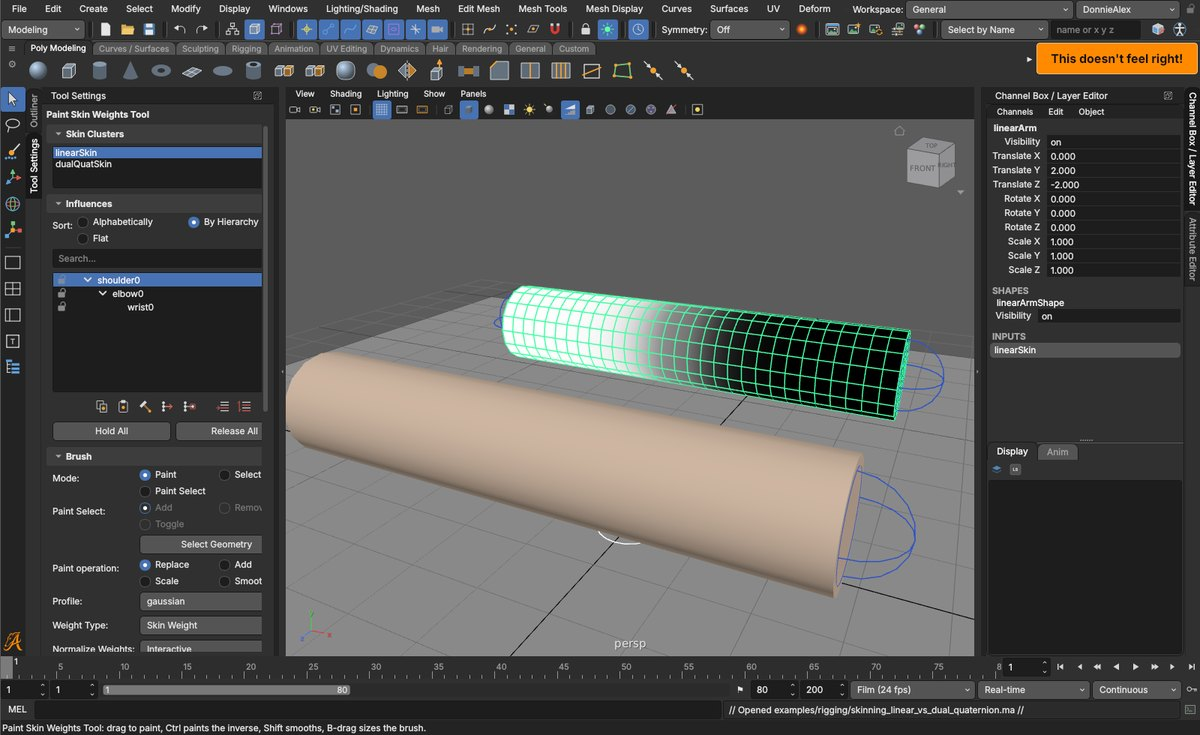
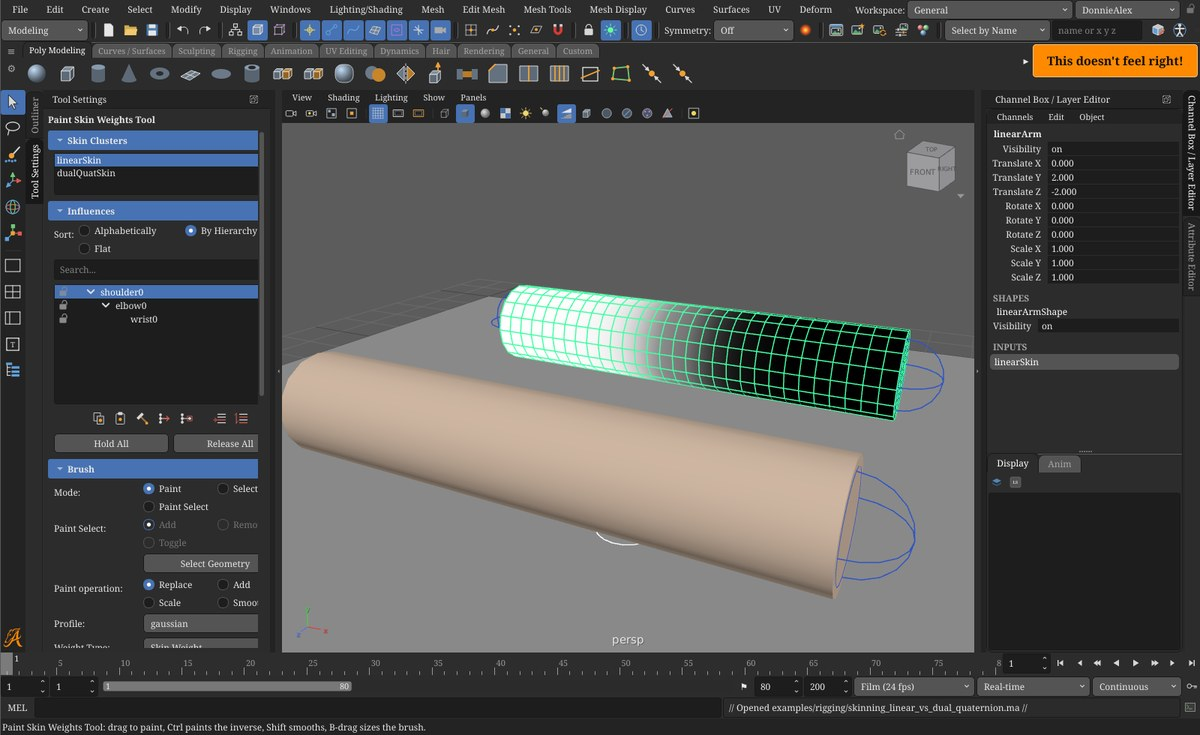
DonnieAlex theme: DonnieAlex's high-contrast version, the blue on the panel headers too, a slightly darker window grey and Noto Serif for the type; its screenshot retaken

diff --git a/site/index.html b/site/index.html
@@ -375,7 +375,7 @@ git push --mirror &lt;your repository's URL&gt;</code></pre>
     <figure><a href="img/theme-solarized-dark.jpg"><img src="img/theme-solarized-dark.jpg" alt="Aztek in the Springer theme" loading="lazy"></a><figcaption><b>Springer</b> Solarized dark with its yellow and orange: condensed type, single bevels, square edges.</figcaption></figure>
     <figure><a href="img/theme-slate.jpg"><img src="img/theme-slate.jpg" alt="Aztek in the Ozymok theme" loading="lazy"></a><figcaption><b>Ozymok</b> Plum and hot pink, Gill-style type with italic menus, gradient buttons with a single bevel.</figcaption></figure>
     <figure><a href="img/theme-dracula.jpg"><img src="img/theme-dracula.jpg" alt="Aztek in the Keating theme" loading="lazy"></a><figcaption><b>Keating</b> The Dracula scheme: pink highlights, purple section bars, rounded type, very round corners.</figcaption></figure>
-    <figure><a href="img/theme-classic98.jpg"><img src="img/theme-classic98.jpg" alt="Aztek in the DonnieAlex theme" loading="lazy"></a><figcaption><b>DonnieAlex</b> After Blender: mid-dark grey regions, darker panel headers, grey rounded widgets, its blue.</figcaption></figure>
+    <figure><a href="img/theme-classic98.jpg"><img src="img/theme-classic98.jpg" alt="Aztek in the DonnieAlex theme" loading="lazy"></a><figcaption><b>DonnieAlex</b> After Blender, in DonnieAlex's high-contrast take: mid-dark grey regions, its blue for panel headers and selection, grey rounded widgets, serif type.</figcaption></figure>
     <figure><a href="img/theme-nord.jpg"><img src="img/theme-nord.jpg" alt="Aztek in the Novacek theme" loading="lazy"></a><figcaption><b>Novacek</b> The Nord scheme: frost blues, geometric type, borderless, round-topped tabs.</figcaption></figure>
     <figure><a href="img/theme-alias.jpg"><img src="img/theme-alias.jpg" alt="Aztek in the Alias theme" loading="lazy"></a><figcaption><b>Alias</b> The late-90s animation package's dark scheme: slate panels, white section bars, fixed-width type.</figcaption></figure>
     <figure><a href="img/theme-pewter.jpg"><img src="img/theme-pewter.jpg" alt="Aztek in the Tureski theme" loading="lazy"></a><figcaption><b>Tureski</b> Warm pewter grey and orange, wide Verdana-style type, double bevels, orange section bars.</figcaption></figure>

diff --git a/app/src/themes.cpp b/app/src/themes.cpp
@@ -417,15 +417,16 @@ QList<Theme> builtins() {
         t.padding = 2;
         l << t;
     }
-    // DonnieAlex: the open source 3D suite of the 2020s: mid-dark grey regions with darker panel headers, grey widgets
-    // with soft round corners, near-black entry fields, its blue for what is on and picked, chevrons on the panels.
+    // DonnieAlex: the open source 3D suite of the 2020s, in DonnieAlex's high-contrast take: mid-dark grey regions, its
+    // blue for the panel headers and for what is on and picked, grey widgets with soft round corners, near-black entry
+    // fields, a serif face, chevrons on the panels.
     {
         Theme t = hand("classic98", "DonnieAlex",
-                       {{"window", "#303030"}, {"chrome", "#232323"}, {"base", "#1d1d1d"}, {"alt", "#2b2b2b"}, {"menu", "#181818"}, {"button", "#545454"}, {"hover", "#656565"},
+                       {{"window", "#2c2c2c"}, {"chrome", "#232323"}, {"base", "#1d1d1d"}, {"alt", "#2b2b2b"}, {"menu", "#181818"}, {"button", "#545454"}, {"hover", "#656565"},
                         {"hi", "#4772b3"}, {"hitext", "#ffffff"}, {"text", "#e6e6e6"}, {"bright", "#ffffff"}, {"dim", "#a5a5a5"}, {"disabled", "#737373"}, {"border", "#191919"},
-                        {"handle", "#545454"}, {"section", "#3d3d3d"}, {"sectiontext", "#e6e6e6"}, {"light", "#5e5e5e"}, {"shadow", "#141414"},
+                        {"handle", "#545454"}, {"section", "#4772b3"}, {"sectiontext", "#e6e6e6"}, {"light", "#5e5e5e"}, {"shadow", "#141414"},
                         {"field", "#1d1d1d"}, {"fieldtext", "#e6e6e6"}});
-        t.font = QStringList{"Inter", "DejaVu Sans", "Segoe UI", "Noto Sans", "Arial"};
+        t.font = QStringList{"Noto Serif"};
         t.point_size = 9;
         t.fill = "flat";
         t.radius = 5;

diff --git a/README.md b/README.md
@@ -574,7 +574,7 @@ copy of your own, kept as JSON in `~/.aztek/themes`, which Import and Export pas
 | ![Gibson](docs/theme-graphite.jpg) | ![Shaq](docs/theme-shaq.jpg) | ![Springer](docs/theme-solarized-dark.jpg) |
 | **Gibson**: forest green and lime, humanist type, soft gradients | **Shaq**: after Unreal Engine 5's editor: near-black and charcoal panels, black fields, its bright blue, Roboto | **Springer**: Solarized dark with its yellow and orange: condensed type, single bevels, square edges |
 | ![Ozymok](docs/theme-slate.jpg) | ![Keating](docs/theme-dracula.jpg) | ![DonnieAlex](docs/theme-classic98.jpg) |
-| **Ozymok**: plum and hot pink, Gill-style type with italic menus, gradient buttons with a single bevel | **Keating**: the Dracula scheme: pink highlights, purple section bars, rounded type, very round corners | **DonnieAlex**: after Blender: mid-dark grey regions, darker panel headers, grey rounded widgets, its blue |
+| **Ozymok**: plum and hot pink, Gill-style type with italic menus, gradient buttons with a single bevel | **Keating**: the Dracula scheme: pink highlights, purple section bars, rounded type, very round corners | **DonnieAlex**: after Blender, in DonnieAlex's high-contrast take: mid-dark grey regions, its blue for panel headers and selection, grey rounded widgets, serif type |
 | ![Novacek](docs/theme-nord.jpg) | ![Alias](docs/theme-alias.jpg) | ![Tureski](docs/theme-pewter.jpg) |
 | **Novacek**: the Nord scheme: frost blues, geometric type, borderless, round-topped tabs | **Alias**: the late-90s animation package's dark scheme: slate panels, white section bars, fixed-width type | **Tureski**: warm pewter grey and orange, wide Verdana-style type, double bevels, orange section bars |
 
